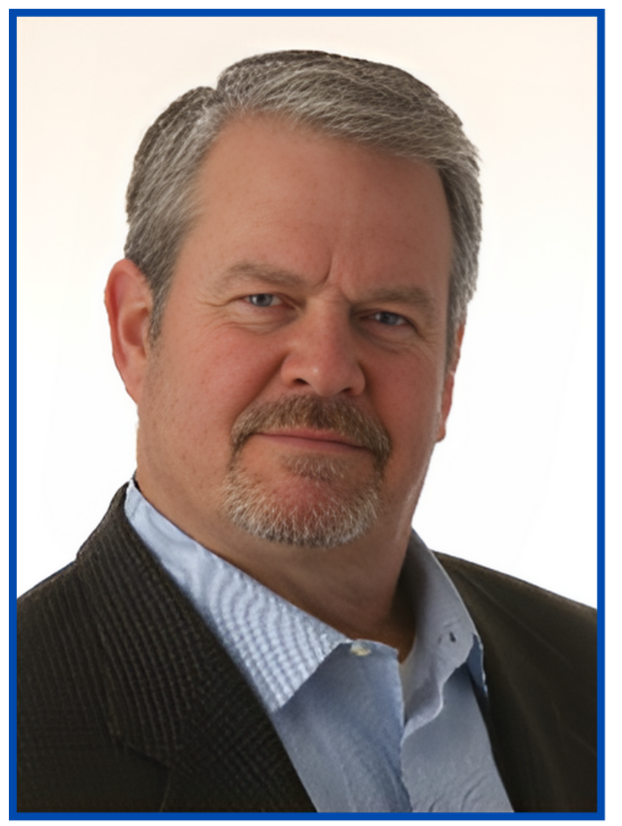
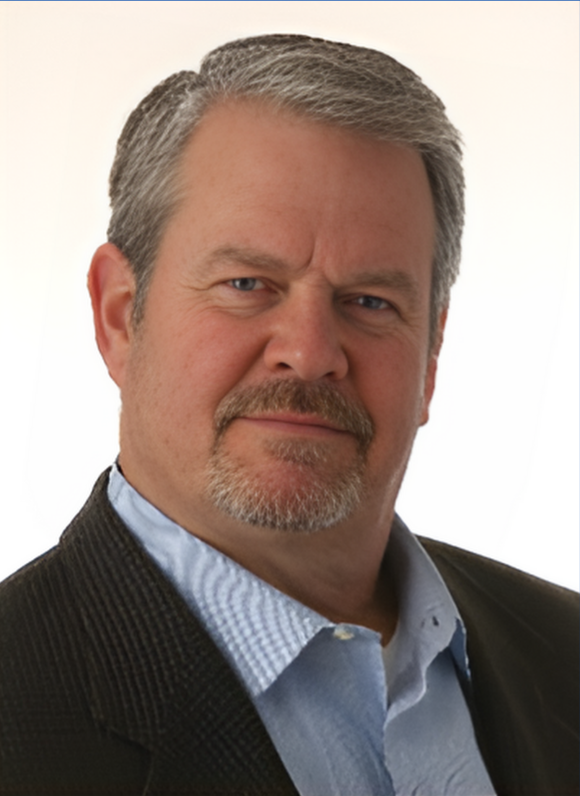
Add Paul Sammon to About advisory team

diff --git a/app/about/Leadership.tsx b/app/about/Leadership.tsx
@@ -90,6 +90,17 @@ export default function Leadership() {
       focal: '50% 30%',
     },
     {
+      name: 'Paul Sammon',
+      title: 'Agency, Media Research & Marketing Advisor',
+      img: '/images/team/paul.png',
+      eyebrow: 'Advisory Team',
+      blurb:
+        'Brings agency, media research, and marketing support experience to help EcoFocus serve ad, PR, marketing, and communications agencies.',
+      details:
+        'With a background that spans agencies, media research, and marketing support, Paul brings EcoFocus valuable perspective for serving ad, PR, marketing, and communications agencies. He began on the agency side at DDB Needham in media planning before going on to lead custom media research at MRI-Simmons, where he helped media brands use audience data across print, digital, newsletters, social, and events to build stronger sales and marketing narratives. At DJG Marketing, he also directed strategic marketing, research support, and ad sales development for hundreds of media brands. Paul was recently featured in Alliance for Audited Media’s “Media Mavens” blog series, “Paul Sammon on the Power of Innovative Data,” where he explored how trust and confidence shape today’s media marketplace. That focus on trusted, differentiated data is especially relevant to EcoFocus and its unique sustainability intelligence. In addition to advising EcoFocus, Paul is President of All In One Insights focusing on providing high quality full-service research, marketing and ad support for media brands across their full multi-platform footprint.',
+      focal: '50% 28%',
+    },
+    {
       name: 'Alex Murrey',
       title: 'Head, Technology & AI',
       img: '/images/team/alex.jpg',
@@ -300,7 +311,6 @@ export default function Leadership() {
     </section>
   );
 }
-
 
 
 
